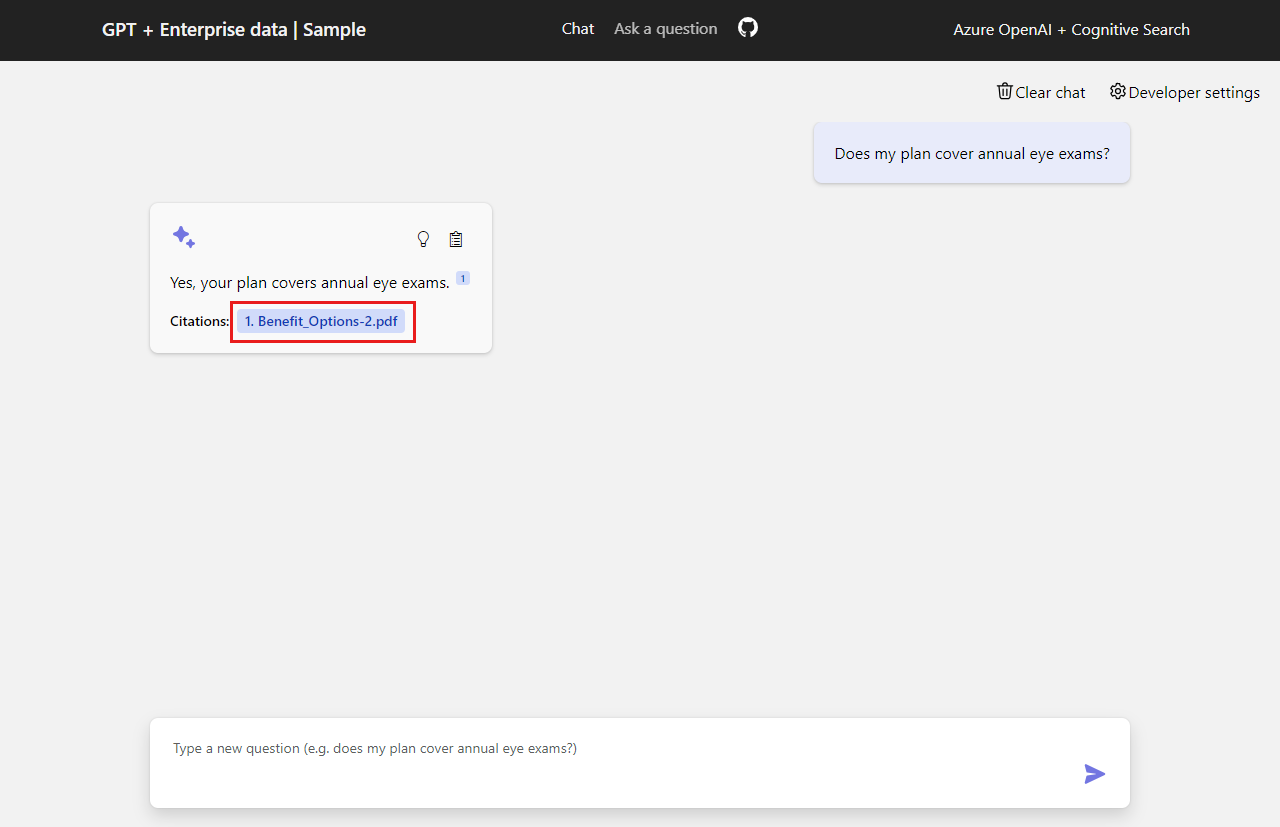
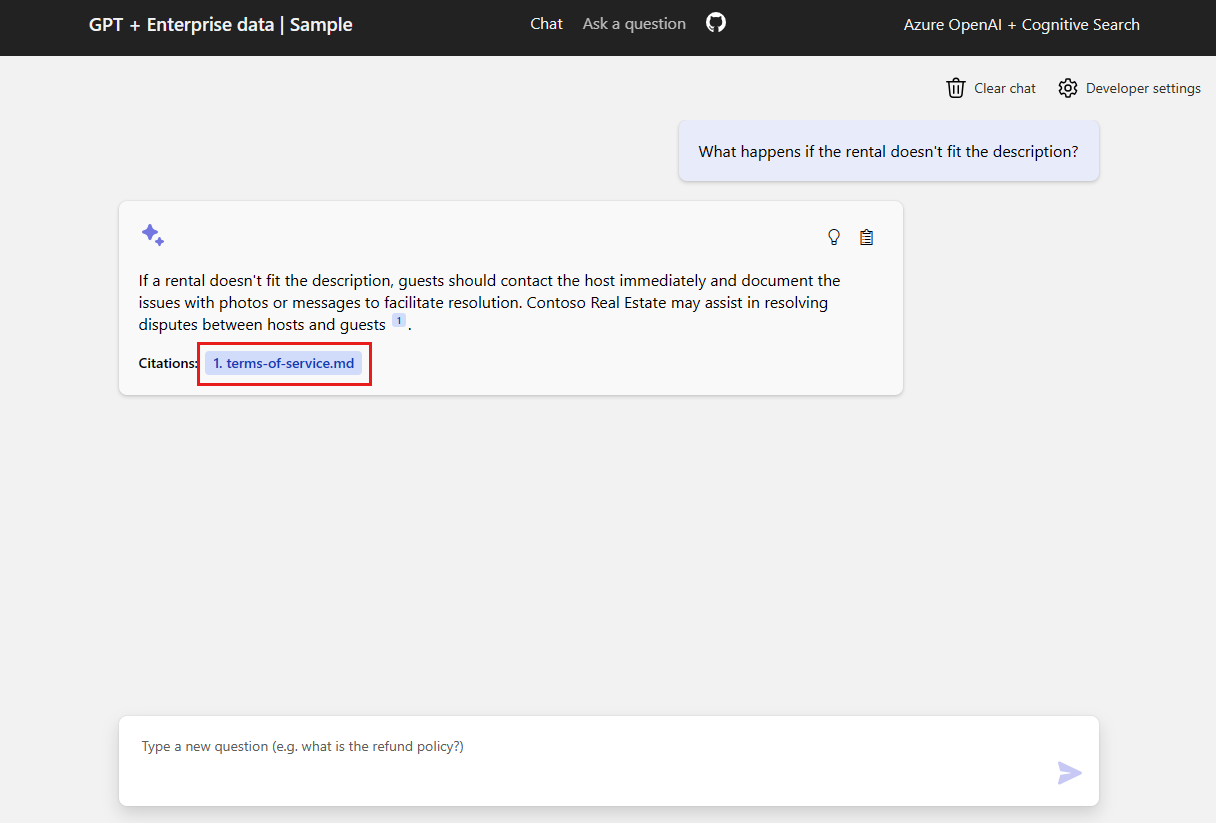
edits based on deployed app

diff --git a/articles/javascript/quickstart-intelligent-app-chat.md b/articles/javascript/quickstart-intelligent-app-chat.md
@@ -165,7 +165,7 @@ The chat app is preloaded with rental information from a [markdown file catalog]
     |**Supporting content**|This includes the information to answer your question and the source material.|
     |**Citation**|This displays the PDF page that contains the citation.|
 
-1. When you're done, select the selected tab again to close the pane.
+1. When you're done, select the tab again to close the pane.
 
 ### Use intelligent Chat app settings to change behavior of responses
 
@@ -175,31 +175,16 @@ The intelligence of the chat app is determined by the OpenAI model and the setti
 1. Check the **Suggest follow-up questions** checkbox and ask the same question again.
 
     ```
-    What is my deductible?
+    What happens if the rental doesn't fit the description?
     ```
 
     The chat returned suggested follow-up questions such as the following:
 
     ```
-    1. What is the cost sharing for out-of-network services?
-    2. Are preventive care services subject to the deductible?
-    3. How does the prescription drug deductible work?
+    1. Would you like to see the refund policy? 
+    2. Would you like to see contact information? 
+    3. Would you like to see the privacy policy? 
     ```
-
-1. In the **Settings** tab, deselect **Use semantic ranker for retrieval**.
-1. Ask the same question again? 
-
-    ```
-    What is my deductible?
-    ```
-
-1. What is the difference in the answers?
-
-    The answer, which used the Semantic ranker provided a single answer: `The deductible for the Northwind Health Plus plan is $2,000 per year`.
-
-    The answer without semantic ranking returned an answer, which required more work to get the answer: `Based on the information provided, it is unclear what your specific deductible is. The Northwind Health Plus plan has different deductible amounts for in-network and out-of-network services, and there is also a separate prescription drug deductible. I would recommend checking with your provider or referring to the specific benefits details for your plan to determine your deductible amount`.
-
-
 
 ## Troubleshooting
 
